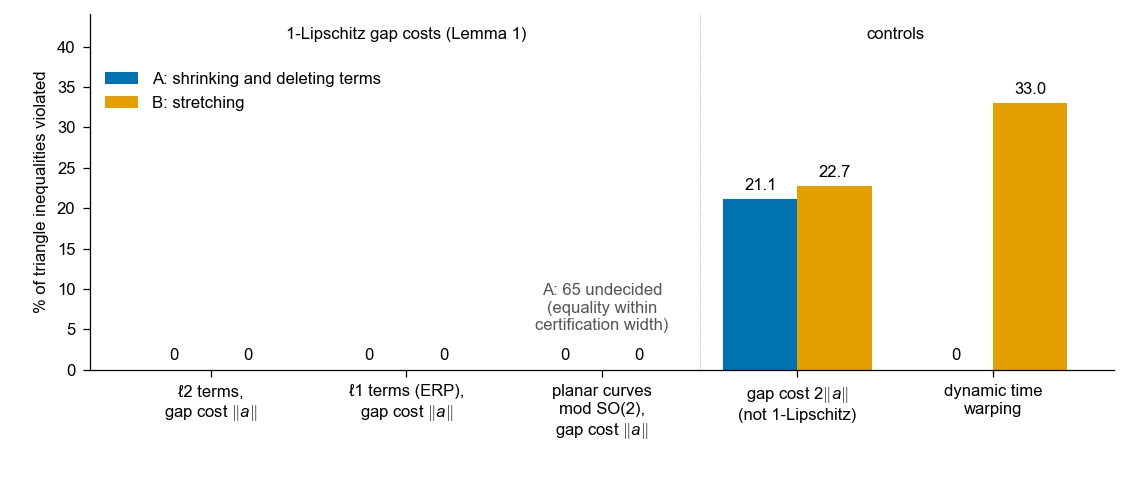
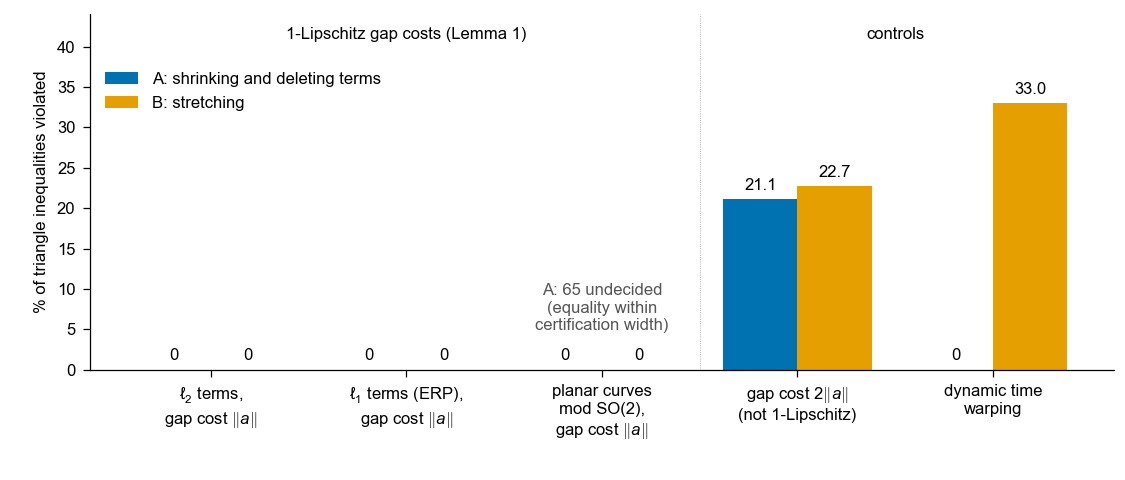
S1 Table checks 0.3 and 0.4 in separate rows, chain-break threshold s > 1.097, Fig 3A markers, S1 Fig subscripts; figures and S1 Table redrawn 17:07 UTC

Changed region(s): [[0.3111, 0.7812, 0.4044, 0.9062], [0.1244, 0.7812, 0.2489, 0.9062]]

diff --git a/code/make_s1.py b/code/make_s1.py
@@ -72,7 +72,8 @@ PRED = [  # record, analysis, prediction, label, outcome, where reported
  ('round36 §0 (full text in record 19 Oct 14:56 UTC)', 'First session 0.0', 'Branch-and-bound and heuristic agree on test pairs.', L_SC, 'Passed (BnB 10/10).', 'S2 Text'),
  ('round36 §0', 'First session 0.1 (truncated chains)', 'Unshared part of full-versus-truncated minus full-versus-full comparisons equal to 0.75 Σ s² over the removed bonds within 2% in every domain, and median shared-part Δ²/√n within the replicate band.', L_DC, 'Not held (relative errors −6% to −107%; terminal flexibility).', 'S2 Text'),
  ('round36 §0', 'First session 0.2 (upper bias of the reduced computation)', 'Bias in every TM-score bin below the larger of 5% of the bin\'s Δ²_D and a quarter of the width of the replicate-only band named in the record times √n̄ of the bin.', L_DC, 'One bin at 1.02× the threshold; band widened under the pre-specified rule, with settings fixed after the result and before re-measurement (0.70× after).', 'Methods, S2 Text'),
- ('round36 §0', 'First session 0.3 and 0.4', 'Incomplete U-statistic agrees with the complete statistic; no flags.', L_SC, 'Passed; flags 0/28.', 'Methods, S2 Text'),
+ ('round36 §0', 'First session 0.3', 'Incomplete U-statistic agrees with the complete statistic (median z below 1).', L_SC, 'Passed: median z 0.84 (largest 2.47).', 'Methods, S2 Text'),
+ ('round36 §0', 'First session 0.4', 'Alignment uncertainty: cells whose shared or unshared part moves by more than 20% across near-optimal alignments are flagged.', L_D, 'Flags 0/28.', 'S2 Text'),
  ('round36 §0, §3 (full text in record 19 Oct 14:56 UTC)', 'E7 (5 and 30 domains)', 'On same-sequence cells, Spearman ≥ 0.9 between the edit-distance and aligned-coordinate versions of Δ², w̄ and the ratio, and median ratio of Δ²_D to aligned-coordinate Δ² within [0.8, 1.2].', L_DC, 'Not held: 0.65 and 0.72 (ranks preserved, ρ = 0.98); pre-specified rule: magnitudes with d.', 'R5'),
  ('round36 §1 (rules in r38_b6.py, checksum in record 19 Oct 19:42 UTC)', 'Continuous axis, prediction 1', 'Spearman(Δ²_D/√n̄, TM-score) < −0.5.', L_SC, 'Held: −0.83 [−0.89, −0.75] (bootstrap over domains; the decision used the superfamily-cluster interval [−0.87, −0.78]).', 'R4'),
  ('round36 §1', 'Continuous axis, prediction 2', 'Δ²_D/√n̄ decreases across TM-score bins without saturating.', L_D, 'Held: 0.83 to 0.23.', 'R4'),
@@ -136,7 +137,7 @@ PRED = [  # record, analysis, prediction, label, outcome, where reported
  ('addendum9 (29 Oct 16:34 UTC; fix1 17:19 UTC)', 'r46_align', 'For A, B0 and B2: C-1 and C-2 lower bounds > 0 → holds; C-1 only → partly.', L_DC, 'Holds for A, B0 and B2.', 'R8, S3 Table'),
  ('addendum10 (30 Oct 06:13 UTC; fixes 06:46, 06:47 UTC)', 'r47_ties', 'Descriptive: largest change with average ranks and any change relative to zero.', L_D, 'At most 5 × 10⁻⁴; no interval changed its position relative to zero.', 'Methods'),
  ('addendum11 (30 Oct 07:30 UTC)', 'r48_identity_range', 'Below 15% identity: C-1 and C-2 lower bounds > 0 → holds; C-1 only → partly; comparison with the range-restriction expectation.', L_DC, 'Partly (C-1 0.167 [0.052, 0.283]; C-2 0.115 [−0.002, 0.238]); A ok, B0 not; consistent with range restriction.', 'R8, S3 Table'),
- ('addendum12 (31 Oct 13:51 UTC; fix1 14:25 UTC)', 'r49_chainbreak', 'No domain or chain of the sets not checked on 28 October has a Cα–Cα bond longer than 4.2 Å (s > 1.1).', L_SC, 'Held: none in 2,594 checks (1,693 distinct mdCATH domains, 37 force-field chains, 666 static chains; longest bond 4.149 Å).', 'Methods'),
+ ('addendum12 (31 Oct 13:51 UTC; fix1 14:25 UTC)', 'r49_chainbreak', 'No domain or chain of the sets not checked on 28 October has a Cα–Cα bond longer than 4.2 Å (s > 1.097).', L_SC, 'Held: none in 2,594 checks (1,693 distinct mdCATH domains, 37 force-field chains, 666 static chains; longest bond 4.149 Å).', 'Methods'),
 ]
 CLASS = [  # section, analysis, classification, record, result
  ('R1, S2 Text 6', 'Coordinate round trip; carbonyl template and mean-point projection (descriptive)', 'pre-specified', 'round36_roundtrip 20 Oct 17:23:15 (stamp; reached Drive 17:34:46, after the output; flagged in sheet A), which names the two descriptive quantities without predictions', '20 Oct 17:26:04'),
@@ -221,7 +222,7 @@ NAMES = {'r44_inv': 'Replicate and frame audits (r44_inv)', 'r44_corr': 'Alterna
          'r45_mpstart': 'Mean points and the starting frame (r45_mpstart)', 'r46_align': 'Alignment accuracy (r46_align)', 'r47_ties': 'Tie handling (r47_ties)',
          'r48_identity_range': 'Identity below 15% (r48_identity_range)', 'r49_chainbreak': 'Chain breaks in the other sets (r49_chainbreak)', 'First session 0.0': 'Computation check 0.0: branch-and-bound against the heuristic',
          'First session 0.1 (truncated chains)': 'Computation check 0.1: truncated chains', 'First session 0.2 (upper bias of the reduced computation)': 'Computation check 0.2: upward bias of the reduced computation',
-         'First session 0.3 and 0.4': 'Computation checks 0.3 and 0.4: incomplete U-statistic and flags'}
+         'First session 0.3': 'Computation check 0.3: incomplete U-statistic', 'First session 0.4': 'Computation check 0.4: alignment uncertainty'}
 def build():
     e = entries(); a = added()
     p = pd.DataFrame(PRED, columns=['Record (UTC)', 'Analysis', 'Prediction or rule', 'Label', 'Outcome', 'Where reported'])
@@ -234,7 +235,7 @@ def build():
         'Sheet D classifies every analysis in the paper as pre-specified (in a record written before its result), added after a result (specified in a record after the result it follows and before it was computed) or not specified in advance. Record times are the earliest Drive time of the entry or sub-entry (a retained version or a snapshot copy), unless marked (stamp), the time written inside it; for the records added from 28 October, the time written inside the file. For an analysis not specified in advance, the record column gives where it is documented: the record entry that received its results, the notebook cells copied in docs/INTERACTIVE_CHECKS.md of the companion repository, or its script and output file; times marked (session log) are those of the working-session log through which the cells were run, the others Drive times or times written in the output file.',
         'Most entries hold their predictions and decision rules as text. The round36 entry (18 October 2026, 18:58:51 UTC) names a pre-specification document as the source of its sections 0–8 and holds a copy of the predictions of sections 7b and 7c (the design, the 7b predictions and the 7c secondary criteria); the record holds the full text of sections 0, 3, 7b and 7c from 19 October, 14:56:51 (round36_partial_freeze_7b7c), including the primary reading rule of section 7c, added to the document on 19 October before the model comparisons. Sections 1c and 7d–7h of the document are amendments made from 19 October onward; each was entered in the record when it was made (sheet A). For sections 1, 1b and 7, the earliest evidence on Drive is the checksum of the analysis script that implements their decision rules (r38_b6.py, r38_p3.py, r38_p1.py), entered before the decision statistics were computed (for r38_p1.py, its pair-counting and mean-point steps had started up to 2.5 minutes earlier; see the Note of round36_p1_code); the scripts contain the rules and are deposited with matching checksums, and their Drive copies were last modified before those entries. For section 2 (natural insertion–deletion cell), the entry round36_r10a (20 October, 16:55:13 on Drive; stamp inside 16:43:20) holds the decision criteria of predictions 2 and 3 as text and the script checksum, before the run (19:16). The document is deposited too, but its earlier versions are dated only by local file times.',
         "In sheets C and D, R1–R8 are the eight Results sections in order (R1, Framed chains and an edit-distance metric across lengths; R2, TM-align's objective as an edit-distance metric; R3, Energy statistics for ensembles and their calibration; R4, Ensembles of different sequences on the same statistic; R5, Bond-level comparison once correspondence and rotation are fixed; R6, Errors of a temperature-conditioned generative model; R7, Thermophilic and mesophilic homologs at equal temperature; R8, Sequence identity and shared-bond fluctuation profiles). Labels such as R3′, R10a′, E1–E7 or P1 in the analysis names are the names used in the records, not section numbers.",
-        'Chain-break check (Methods). A chain break would appear as a Cα–Cα bond longer than 4.2 Å (s > 1.1). On 28 October 2026 (not specified in advance): the 336 calibration domains, every bond of the first 320 K frame of replicate 0, and the 1,496 and 949 domains of the two homolog studies, the frame-averaged bond lengths stored with each domain. On 31 October (addendum12, r49_chainbreak): the 67 model-error domains, the 494 domains of the 281 pairs of the comparison across sequences, the 34 domains of the natural insertion–deletion pairs, the 570 domains of the certified pairs and the 659 and 531 domains of the two thermophile studies, every bond of the first frame of each 320 K replicate in the mdCATH files, with the atoms each analysis used (for 311 domains of the replication, the first stored frame of the second half); the 37 force-field chains, over the residues shared with mdCATH, in the ATLAS starting structure and in mdCATH; and the 666 static chains of the first two Results sections, which include every whole chain of the second factorial design. None had a longer bond (2,594 checks on 31 October: 1,693 distinct mdCATH domains, 37 force-field chains and 666 static chains, some domains also checked on 28 October; longest bond 4.149 Å). Not checked: 18 of the 100 structures of the first factorial design (S2 Text 8.2), the 150 two-domain chains of the chaining test (S2 Text 8.4) and 3 of the 40 chains of the whole-trajectory force-field reference (2yzt_A, 3mhs_B, 4e5r_A). Generated samples (aSAMt, AlphaFlow) were not checked either: the models build them for the full domain sequence, so no residue is missing.',
+        'Chain-break check (Methods). A chain break would appear as a Cα–Cα bond longer than 4.2 Å (s > 1.097). On 28 October 2026 (not specified in advance): the 336 calibration domains, every bond of the first 320 K frame of replicate 0, and the 1,496 and 949 domains of the two homolog studies, the frame-averaged bond lengths stored with each domain. On 31 October (addendum12, r49_chainbreak): the 67 model-error domains, the 494 domains of the 281 pairs of the comparison across sequences, the 34 domains of the natural insertion–deletion pairs, the 570 domains of the certified pairs and the 659 and 531 domains of the two thermophile studies, every bond of the first frame of each 320 K replicate in the mdCATH files, with the atoms each analysis used (for 311 domains of the replication, the first stored frame of the second half); the 37 force-field chains, over the residues shared with mdCATH, in the ATLAS starting structure and in mdCATH; and the 666 static chains of the first two Results sections, which include every whole chain of the second factorial design. None had a longer bond (2,594 checks on 31 October: 1,693 distinct mdCATH domains, 37 force-field chains and 666 static chains, some domains also checked on 28 October; longest bond 4.149 Å). Not checked: 18 of the 100 structures of the first factorial design (S2 Text 8.2), the 150 two-domain chains of the chaining test (S2 Text 8.4) and 3 of the 40 chains of the whole-trajectory force-field reference (2yzt_A, 3mhs_B, 4e5r_A). Generated samples (aSAMt, AlphaFlow) were not checked either: the models build them for the full domain sequence, so no residue is missing.',
         'Times of entries are the earliest Drive times at which they appear, from a retained file version or a snapshot copy (server times); times written inside entries are given where they differ.',
         'The records are included unchanged in the data deposit.']})
     with pd.ExcelWriter(f'{OUT}/S1_Table.xlsx') as xw:

diff --git a/code/make_figs.py b/code/make_figs.py
@@ -91,7 +91,7 @@ def fig3():
     lab = ['+28 K', '+59 K', '+93 K', '+130 K']; T = ['348', '379', '413', '450']; vals = []
     for i, (l, tt) in enumerate(zip(lab, T)):
         e, lo, hi = ci(E0['cells'][f'온도 {l}|줄기|half']['d2n']); vals.append((e, lo, hi))
-        ax.errorbar(i, e, yerr=[[e - lo], [hi - e]], fmt='o', color=SCOL[tt], ms=4, capsize=2, elinewidth=0.8)
+        ax.errorbar(i, e, yerr=[[e - lo], [hi - e]], fmt='o', color=SCOL[tt], ms=3, capsize=2, elinewidth=0.8)   # ms 3: the lower bar end of +28 K shows outside the marker
     b = E2['R0_band_half']['band']; ax.axhspan(b[0], b[1], color=OI['grey'], alpha=0.3, lw=0); ax.axhline(0, color='black', lw=0.4)
     ax.text(3.45, b[1] + 0.001, 'replicate-only\nband', fontsize=FS, ha='right', va='bottom', color='#555555')
     ax.set_xticks(range(4)); ax.set_xticklabels(lab); ax.set_xlabel('heating from 320 K'); ax.set_ylabel(r'$\Delta^2_D/\sqrt{\bar n}$' + ' (superfamily median)'); ax.set_xlim(-0.5, 3.5)
@@ -244,7 +244,7 @@ def fig7():
 # ---------------- S1 Fig ----------------
 def s1fig():
     adv = J('r41_synth_adv.json')['generators']
-    fams = [('i', 'ℓ2 terms,\ngap cost ' + r'$\Vert a\Vert$'), ('ii', 'ℓ1 terms (ERP),\ngap cost ' + r'$\Vert a\Vert$'), ('iii', 'planar curves\nmod SO(2),\ngap cost ' + r'$\Vert a\Vert$'), ('iv', 'gap cost ' + r'$2\Vert a\Vert$' + '\n(not 1-Lipschitz)'), ('v', 'dynamic time\nwarping')]
+    fams = [('i', 'ℓ$_2$ terms,\ngap cost ' + r'$\Vert a\Vert$'), ('ii', 'ℓ$_1$ terms (ERP),\ngap cost ' + r'$\Vert a\Vert$'), ('iii', 'planar curves\nmod SO(2),\ngap cost ' + r'$\Vert a\Vert$'), ('iv', 'gap cost ' + r'$2\Vert a\Vert$' + '\n(not 1-Lipschitz)'), ('v', 'dynamic time\nwarping')]
     fig, ax = plt.subplots(figsize=(7.5, 3.2)); fig.subplots_adjust(left=0.08, right=0.99, bottom=0.23, top=0.97); x = np.arange(len(fams)); w = 0.38; out = {}
     for k, (gname, col, lab) in enumerate([('A', OI['blue'], 'A: shrinking and deleting terms'), ('B', OI['orange'], 'B: stretching')]):
         v = []

diff --git a/docs/PROVENANCE.md b/docs/PROVENANCE.md
@@ -95,8 +95,8 @@ The md5 of every file in the repository is in `MANIFEST.md5` (`md5sum -c MANIFES
 | `code/ladder_model_error_folded.py` | `0c2d4e91bfcd06eca6c07152d0e9debb` | U |  |
 | `code/ladder_temp_single.py` | `961d2f27c0406c9667fabb03b2d5b142` | U |  |
 | `code/ladder_temp_single_v2.py` | `6420c51e5aeb3a69c51aafa1711a261d` | U |  |
-| `code/make_figs.py` | `48f13db5e93411f2fb9a264ce2a3cf7e` | U | figure script, run on Colab 2026-11-01 (Arial, text 8 pt or larger; Fig 4 redrawn 16:57 UTC with more margin; Figs 3, 4, 5 and 7 redrawn 17:45 UTC: markers per heating step in Fig 3, a key for the κ² bar in Fig 4B, negative ticks in Fig 5A, a separator in Fig 7; Figs 1, 3 and 4 redrawn 18:29 UTC and Fig 4 again 18:31 UTC: glyphs and open circles of Fig 1B and 1D drawn true to shape on axes whose x and y units differ, markers at probability 0 unclipped in Fig 3C, 'crossing' centered in its band in Fig 4B; Figs 1, 2 and 3 redrawn 22:39 UTC: arrows of the Fig 1 glyphs without end shrink, so that they scale with the term, and mathematical type for π and U in Fig 1B, D_TM in Fig 2B and n in Fig 3B; values unchanged); all figures redrawn together 2026-11-02 02:05 UTC (in the same notebook run, the values each figure function returns were saved with the manuscript files as figure_values.json): t in Fig 1D, Q in Fig 6 and ‖a‖ in S1 Fig in mathematical type, d₀(L̄) on the linear bar of Fig 2B, open diamonds in Fig 5A; Fig 4 redrawn 03:45 UTC: the κ = 1 line under the markers; all figures redrawn together 04:52 UTC with this version, the values saved again in figure_values.json and equal to those of 02:05 UTC: ticks of Fig 3C at the simulated numbers of domains (only Fig 3 changed; the other figure files are byte for byte the same); all figures redrawn together 06:07 UTC with this version in a new Colab runtime (values equal to those of 02:05 UTC): the Fig 2A row "TM-align, mean of both", the mean of TM-align's two scores (only Fig 2 changed); reads stored results only; not specified in advance |
-| `code/make_s1.py` | `79431f9dc2472b90c84956d9cf93ba0f` | U | S1 Table script, run on Colab 2026-10-31 and again on 2026-11-01 and 2026-11-02 (2026-11-01 16:57 UTC: percentage intervals with % on both bounds; 17:45 UTC: one timestamp style in sheet A and the label "withdrawn"; 18:29 UTC: "2,594 distinct domains and chains" in the chain-break check, and the date of the ranking in sheet D as 16–17 October; 22:45 UTC: the intersection condition and the gate in the rule of the confirmatory C-1 and C-2, with the intersection values; 2026-11-02 02:05 and 02:08 UTC: rule of the confirmatory row (equivalence and smaller-than-minimum categories; intersection values in this table only), package reproduction at 05:14 and 05:15, κ of the cells of different sequences as added after a result (round43); 2026-11-02 03:10 UTC: in sheet C, a row for C-2 in the shorter domains of the first study, ‖a‖ in the g6 controls and the full threshold rule of first-session check 0.2; in sheet D, the shorter-domain controls in the confirmatory rows, "section 0 computation checks" in the continuous-axis row and three rows classifying the coverage simulations of θ*; 03:19 UTC: records found for rows first classified as specified in no record (now "not specified in advance") — the θ* coverage simulations and the design effect reclassified as pre-specified, the other rows give where each analysis was recorded; 2026-11-02 04:07 UTC: every analysis checked against the records — the one-sided coverage simulation of θ* and the design effect pre-specified, the condition-2 simulation of the θ* test not specified in advance; every sheet D row (60 rows, new ones for analyses not covered before, among them the 499/500 description, the 450 K check of E4, where correspondence shifts occur, the single-domain resolution E0 and the negative-type computations of S3 Text 2) gives where its analysis is recorded or documented (record entry, notebook cells in docs/INTERACTIVE_CHECKS.md, or script and output file, with times); in sheet C, the two E0 predictions of round29 and round32 and the record time of the primary rule of section 7c (full text of 19 October); in sheet A, round32 marked as bearing on this paper; 2026-11-02 04:52 UTC: in sheet C, both conditions of the 450 K version of E4 with their values and the permutation reference 0.64 of round32; in sheet C, the record times of round36_roundtrip and round36_r6; in sheet D, the record time of round36_p1_code and the result times 01:29:59 of the two P3 rows; the labels "not specified in advance" and "added after a result" throughout; 2026-11-02 06:07 UTC: in the Notes, the sets the chain-break checks did not cover; in sheet C, two intervals with ties in sort order marked as not recomputed with average ranks, the remaining labels "added after a result", round36_sec6 as the record of certification prediction 2; in sheet A, the Drive time 06:51:03 of the checksums of round36_amend_C; 2026-11-02 09:40 UTC: in the Notes and in sheet C, the 2,594 chain-break checks as 1,693 distinct mdCATH domains, 37 force-field chains and 666 static chains, and no mention of the 208-structure block, which the paper does not report); not specified in advance |
+| `code/make_figs.py` | `d7783270d20e7bd260710ff8b9177ab8` | U | figure script, run on Colab 2026-11-01 (Arial, text 8 pt or larger; Fig 4 redrawn 16:57 UTC with more margin; Figs 3, 4, 5 and 7 redrawn 17:45 UTC: markers per heating step in Fig 3, a key for the κ² bar in Fig 4B, negative ticks in Fig 5A, a separator in Fig 7; Figs 1, 3 and 4 redrawn 18:29 UTC and Fig 4 again 18:31 UTC: glyphs and open circles of Fig 1B and 1D drawn true to shape on axes whose x and y units differ, markers at probability 0 unclipped in Fig 3C, 'crossing' centered in its band in Fig 4B; Figs 1, 2 and 3 redrawn 22:39 UTC: arrows of the Fig 1 glyphs without end shrink, so that they scale with the term, and mathematical type for π and U in Fig 1B, D_TM in Fig 2B and n in Fig 3B; values unchanged); all figures redrawn together 2026-11-02 02:05 UTC (in the same notebook run, the values each figure function returns were saved with the manuscript files as figure_values.json): t in Fig 1D, Q in Fig 6 and ‖a‖ in S1 Fig in mathematical type, d₀(L̄) on the linear bar of Fig 2B, open diamonds in Fig 5A; Fig 4 redrawn 03:45 UTC: the κ = 1 line under the markers; all figures redrawn together 04:52 UTC with this version, the values saved again in figure_values.json and equal to those of 02:05 UTC: ticks of Fig 3C at the simulated numbers of domains (only Fig 3 changed; the other figure files are byte for byte the same); all figures redrawn together 06:07 UTC with this version in a new Colab runtime (values equal to those of 02:05 UTC): the Fig 2A row "TM-align, mean of both", the mean of TM-align's two scores (only Fig 2 changed); all figures redrawn together 17:07 UTC with this version (values unchanged): smaller markers in Fig 3A, so that the lower bar end at +28 K shows, and subscripts in ℓ₂ and ℓ₁ of S1 Fig (only Fig 3 and S1 Fig changed); reads stored results only; not specified in advance |
+| `code/make_s1.py` | `f11020ff6cb866d3404df8c6a545335d` | U | S1 Table script, run on Colab 2026-10-31 and again on 2026-11-01 and 2026-11-02 (2026-11-01 16:57 UTC: percentage intervals with % on both bounds; 17:45 UTC: one timestamp style in sheet A and the label "withdrawn"; 18:29 UTC: "2,594 distinct domains and chains" in the chain-break check, and the date of the ranking in sheet D as 16–17 October; 22:45 UTC: the intersection condition and the gate in the rule of the confirmatory C-1 and C-2, with the intersection values; 2026-11-02 02:05 and 02:08 UTC: rule of the confirmatory row (equivalence and smaller-than-minimum categories; intersection values in this table only), package reproduction at 05:14 and 05:15, κ of the cells of different sequences as added after a result (round43); 2026-11-02 03:10 UTC: in sheet C, a row for C-2 in the shorter domains of the first study, ‖a‖ in the g6 controls and the full threshold rule of first-session check 0.2; in sheet D, the shorter-domain controls in the confirmatory rows, "section 0 computation checks" in the continuous-axis row and three rows classifying the coverage simulations of θ*; 03:19 UTC: records found for rows first classified as specified in no record (now "not specified in advance") — the θ* coverage simulations and the design effect reclassified as pre-specified, the other rows give where each analysis was recorded; 2026-11-02 04:07 UTC: every analysis checked against the records — the one-sided coverage simulation of θ* and the design effect pre-specified, the condition-2 simulation of the θ* test not specified in advance; every sheet D row (60 rows, new ones for analyses not covered before, among them the 499/500 description, the 450 K check of E4, where correspondence shifts occur, the single-domain resolution E0 and the negative-type computations of S3 Text 2) gives where its analysis is recorded or documented (record entry, notebook cells in docs/INTERACTIVE_CHECKS.md, or script and output file, with times); in sheet C, the two E0 predictions of round29 and round32 and the record time of the primary rule of section 7c (full text of 19 October); in sheet A, round32 marked as bearing on this paper; 2026-11-02 04:52 UTC: in sheet C, both conditions of the 450 K version of E4 with their values and the permutation reference 0.64 of round32; in sheet C, the record times of round36_roundtrip and round36_r6; in sheet D, the record time of round36_p1_code and the result times 01:29:59 of the two P3 rows; the labels "not specified in advance" and "added after a result" throughout; 2026-11-02 06:07 UTC: in the Notes, the sets the chain-break checks did not cover; in sheet C, two intervals with ties in sort order marked as not recomputed with average ranks, the remaining labels "added after a result", round36_sec6 as the record of certification prediction 2; in sheet A, the Drive time 06:51:03 of the checksums of round36_amend_C; 2026-11-02 09:40 UTC: in the Notes and in sheet C, the 2,594 chain-break checks as 1,693 distinct mdCATH domains, 37 force-field chains and 666 static chains, and no mention of the 208-structure block, which the paper does not report; 2026-11-02 17:07 UTC: in sheet C, computation checks 0.3 (a sanity check, with its median z) and 0.4 (descriptive, as in the pre-specification document) in separate rows, and the chain-break threshold as s > 1.097 (4.2 Å / 3.83 Å)); not specified in advance |
 | `code/make_tables.py` | `9e13d1363bb3a942e443a2d42795952a` | U | S2 and S3 Table script, run on Colab 2026-10-31 (S3 Table again 2026-11-01 08:16 UTC with a revised note) and both again 2026-11-01 17:45 UTC (column widths and frozen headers, numeric median columns in S2, a lower bound of −0.000 in S3 now keeps its sign) and 18:29 UTC (Pairs and Superfamilies stored as numbers in the S3 xlsx; S2 note: force-field cells, and which size-matched columns are blank; csv files unchanged) and 2026-11-02 06:07 UTC (S3 Table: the four partial correlations of precision, computed under both controls, moved to the C-2 column and labeled accordingly; the S2 Table was written again with the same content); not specified in advance |
 | `code/mdcath_5T_extract.py` | `a77709c6edfef1e21207070b2c959b69` | U |  |
 | `code/mdcath_5T_folded.py` | `6c65c299322b4cdbf6ae447c51481fa4` | U |  |

diff --git a/docs/SCRIPTS.md b/docs/SCRIPTS.md
@@ -176,7 +176,7 @@ and `prereg_2026-10-31_addendum12*.json`); corrections were written as separate 
 
 ## Figures and tables
 
-These scripts read stored results only (see `docs/RESULTS_MAP.md`, Figures and tables); on Colab, the figures (in Arial when installed, with msttcorefonts, otherwise Liberation Sans; text 8 pt or larger) and the tables were last drawn as follows: all eight figures together on 2026-11-02 at 06:07 UTC, the S1 Table on 2026-11-02 at 09:40 UTC, the S3 Table at 06:07 UTC and the S2 Table on 2026-11-01 at 18:29 UTC (written again with the same content on 2026-11-02 at 06:07 UTC; times of the files on Colab; earlier runs in `docs/PROVENANCE.md`).
+These scripts read stored results only (see `docs/RESULTS_MAP.md`, Figures and tables); on Colab, the figures (in Arial when installed, with msttcorefonts, otherwise Liberation Sans; text 8 pt or larger) and the tables were last drawn as follows: all eight figures together on 2026-11-02 at 17:07 UTC, the S1 Table on 2026-11-02 at 17:07 UTC, the S3 Table at 06:07 UTC and the S2 Table on 2026-11-01 at 18:29 UTC (written again with the same content on 2026-11-02 at 06:07 UTC; times of the files on Colab; earlier runs in `docs/PROVENANCE.md`).
 They take no arguments; the project path `R` and the output folder are set at the top of each file.
 
 | Script | What it does | Main outputs |

diff --git a/docs/INTERACTIVE_CHECKS.md b/docs/INTERACTIVE_CHECKS.md
@@ -611,7 +611,7 @@ Output:
 
 ## 6. Chain breaks (28 October 2026)
 
-Methods: no domain or chain checked had a Cα–Cα bond longer than 4.2 Å (s > 1.1); the sets not checked are listed there and in S1 Table. For the homolog studies the check
+Methods: no domain or chain checked had a Cα–Cα bond longer than 4.2 Å (s > 1.097); the sets not checked are listed there and in S1 Table. For the homolog studies the check
 used the frame-averaged length ratio `sbar` stored for each domain (`derived/r38/p3/dom/`, first homolog study, 1,496
 domains with `sbar`; `derived/r38/c/dom/`, confirmatory set, 949), and for the 336 calibration domains every bond of the
 first 320 K frame of replicate 0 (`derived/mdcath_5T/<domain>.npz`, `320_0_X`). The output tuple is (domains checked,

diff --git a/docs/RESULTS_MAP.md b/docs/RESULTS_MAP.md
@@ -153,7 +153,7 @@ computed (manuscript, Methods).
 ## Figures and tables
 
 The figure and table scripts read stored results only and recompute nothing. On Colab, all eight figures were last
-drawn together on 2026-11-02 at 06:07 UTC, the S1 Table on 2026-11-02 at 09:40 UTC, the S3 Table at 06:07 UTC and the S2 Table on
+drawn together on 2026-11-02 at 17:07 UTC, the S1 Table on 2026-11-02 at 17:07 UTC, the S3 Table at 06:07 UTC and the S2 Table on
 2026-11-01 at 18:29 UTC (written again with the same content on 2026-11-02 at 06:07 UTC; times of the files on Colab; earlier runs are listed in `docs/PROVENANCE.md`); the scripts
 write to `manuscript_figs/` under the project path set at the top of each file.
 
